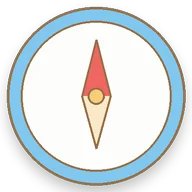
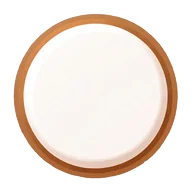
art: new nearby-shops, inbox buttons and compass (plate stays, only the needle rotates)
Claude-Session: https://claude.ai/code/session_01Bp5TxBHK1Ff9PJZ5NmToxW

diff --git a/src/map/ui/MapHud.tsx b/src/map/ui/MapHud.tsx
@@ -1,6 +1,5 @@
 // 地図の上に重ねる部品: 左上のキャラ札（Lv）、上の真ん中の気配、下の真ん中のメニュー（扇で5つ）。
 // 2026-11-10 オーナー決定の配置。メニュー・気配の絵はミシェーラの完成形（2026-11-12、丸と枠まで絵に入っている）。
-import { Icon } from '../../ui/Icon.tsx'
 import { useEffect, useRef, useState } from 'react'
 import { fanPositions } from '../domain/menuFan.ts'
 import { CoinIcon } from '../../ui/CoinIcon.tsx'
@@ -70,14 +69,14 @@ export function MapHud(p: Props) {
 
       <Compass subscribe={p.subscribeBearing} onTap={p.onCompass} />
 
-      {/* 近くのお店の一覧。絵は仮（線のアイコン）。ミシェーラの丸ボタンの絵ができたら差し替える */}
+      {/* 近くのお店の一覧（丸ボタンの絵 2026-11-18） */}
       <button type="button" className="hud-nearby" aria-label="近くのお店" onClick={p.onNearby}>
-        <Icon name="store" size={26} />
+        <img src={art('btn-nearby')} alt="" />
       </button>
 
       {/* お知らせ・プレゼント（A7）。赤い点 = 未読か受け取っていないものがある */}
       <button type="button" className="hud-inbox" aria-label={p.inboxDot ? 'お知らせ・プレゼント（新着あり）' : 'お知らせ・プレゼント'} onClick={p.onInbox}>
-        <Icon name="mail" size={24} />
+        <img src={art('btn-inbox')} alt="" />
         {p.inboxDot && <i className="hud-inbox__dot" aria-hidden="true" />}
       </button>
 
@@ -131,7 +130,8 @@ function Compass({ subscribe, onTap }: { subscribe: Props['subscribeBearing']; o
   )
   return (
     <button type="button" className="hud-compass" aria-label="北を上にして自分の場所に戻る" onClick={onTap}>
-      <img ref={imgRef} src={art('compass')} alt="" />
+      <img src={art('compass')} alt="" />
+      <img ref={imgRef} className="hud-compass__needle" src={art('compass-needle')} alt="" />
     </button>
   )
 }

diff --git a/src/map/ui/map.css b/src/map/ui/map.css
@@ -290,48 +290,49 @@
   pointer-events: none;
   filter: drop-shadow(0 2px 4px rgba(0, 0, 0, 0.18));
 }
+.hud-compass .hud-compass__needle {
+  position: absolute;
+  inset: 0;
+  filter: none; /* 土台の影だけ。針の影を重ねると二重になる */
+}
 
-/* 近くのお店の一覧のボタン（方位磁針の下）。絵は仮 */
+/* 近くのお店の一覧のボタン（方位磁針の下）。丸い絵そのもの */
 .hud-nearby {
   position: absolute;
-  right: 18px;
-  top: 82px;
+  right: 14px;
+  top: 78px;
   z-index: 5;
-  display: flex;
-  align-items: center;
-  justify-content: center;
-  width: 46px;
-  height: 46px;
+  width: 54px;
+  height: 54px;
   padding: 0;
-  border: 2px solid #fff;
-  border-radius: 50%;
-  background: #e8883a;
-  box-shadow: 0 2px 6px rgba(0, 0, 0, 0.22);
-  color: #fff;
+  border: 0;
+  background: none;
 }
 
 /* お知らせ・プレゼントのボタン（近くのお店の下。A7） */
 .hud-inbox {
   position: absolute;
-  right: 18px;
+  right: 14px;
   top: 140px;
   z-index: 5;
-  display: flex;
-  align-items: center;
-  justify-content: center;
-  width: 46px;
-  height: 46px;
+  width: 54px;
+  height: 54px;
   padding: 0;
-  border: 2px solid #fff;
-  border-radius: 50%;
-  background: #e8883a;
-  box-shadow: 0 2px 6px rgba(0, 0, 0, 0.22);
-  color: #fff;
+  border: 0;
+  background: none;
+}
+.hud-nearby img,
+.hud-inbox img {
+  display: block;
+  width: 100%;
+  height: 100%;
+  pointer-events: none;
+  filter: drop-shadow(0 2px 4px rgba(0, 0, 0, 0.18));
 }
 .hud-inbox__dot {
   position: absolute;
-  top: -2px;
-  right: -2px;
+  top: 2px;
+  right: 2px;
   width: 13px;
   height: 13px;
   border: 2px solid #fff;
